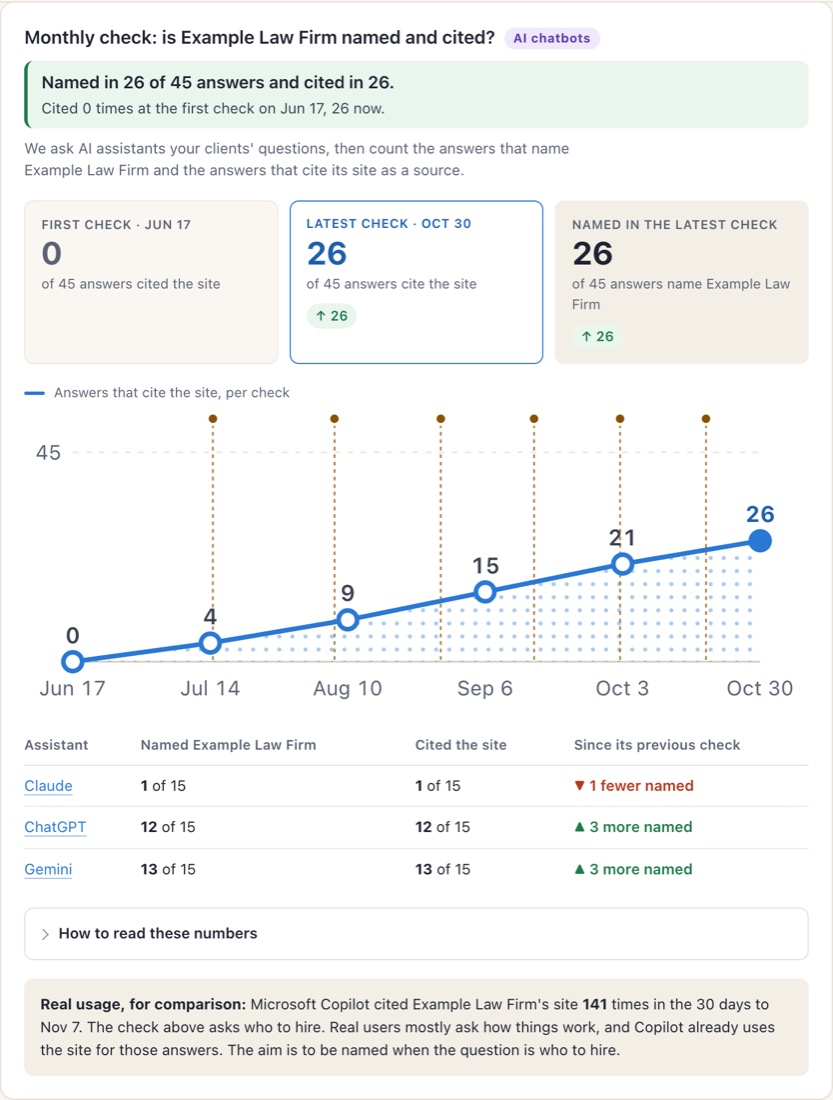
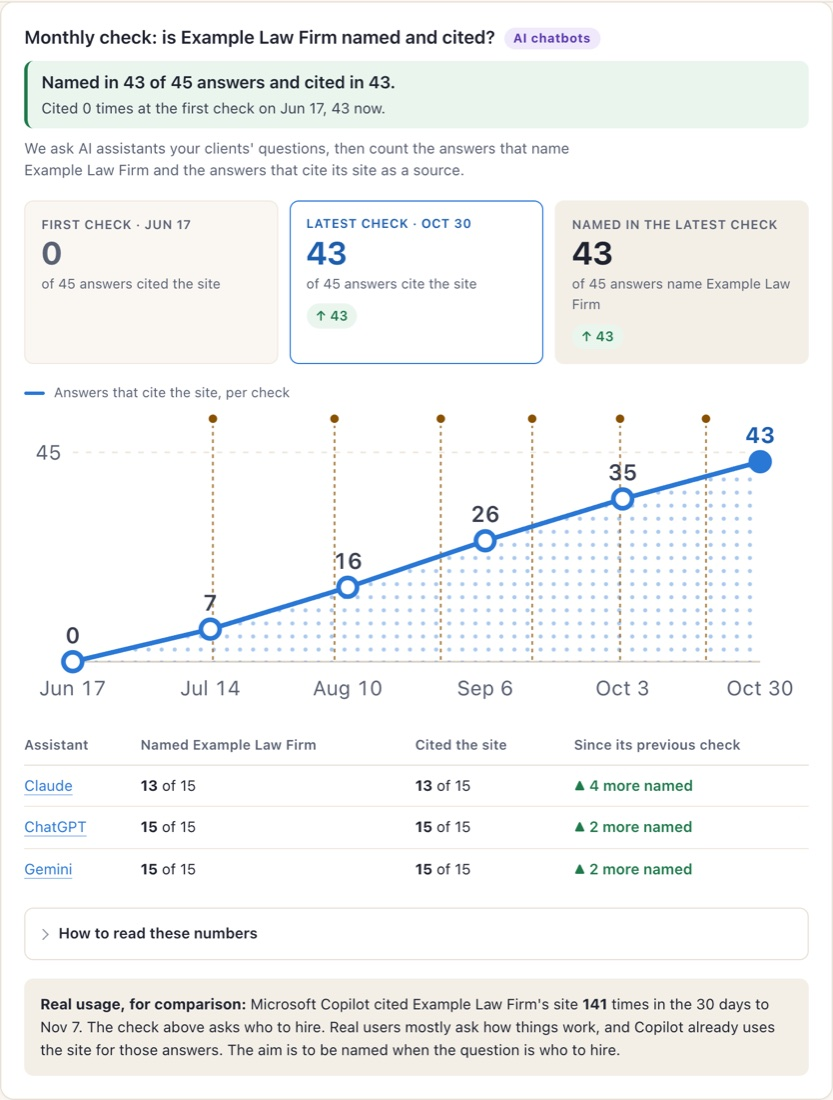
Engine card demo chart: 0, 7, 16, 26, 35, 43 of 45
Claude-Session: https://claude.ai/code/session_01Xw6qwDoa1RgdJ2gqcAdbdJ

diff --git a/scripts/v2/bodies/en/home.html b/scripts/v2/bodies/en/home.html
@@ -130,7 +130,7 @@ ld: [{"@type":"FAQPage","mainEntity":[{"@type":"Question","name":"What does Ship
       </div>
       <figure class="shot rv" style="max-width:540px;justify-self:center">
         <div class="bar" aria-hidden="true"><i></i><i></i><i></i><span>Monthly check</span></div>
-        <img src="/assets/v2/img/engine-monthly-en.jpg" width="833" height="1100" alt="Ship to Live AI Visibility Engine monthly check: how often AI answers name and cite the site, month by month (demo data, fictional company)" loading="lazy">
+        <img src="/assets/v2/img/engine-monthly-en.jpg?v=3" width="833" height="1100" alt="Ship to Live AI Visibility Engine monthly check: how often AI answers name and cite the site, month by month (demo data, fictional company)" loading="lazy">
         <figcaption>Real system screen (demo data)</figcaption>
       </figure>
     </div>

diff --git a/en/index.html b/en/index.html
@@ -268,7 +268,7 @@
       </div>
       <figure class="shot rv" style="max-width:540px;justify-self:center">
         <div class="bar" aria-hidden="true"><i></i><i></i><i></i><span>Monthly check</span></div>
-        <img src="/assets/v2/img/engine-monthly-en.jpg" width="833" height="1100" alt="Ship to Live AI Visibility Engine monthly check: how often AI answers name and cite the site, month by month (demo data, fictional company)" loading="lazy">
+        <img src="/assets/v2/img/engine-monthly-en.jpg?v=3" width="833" height="1100" alt="Ship to Live AI Visibility Engine monthly check: how often AI answers name and cite the site, month by month (demo data, fictional company)" loading="lazy">
         <figcaption>Real system screen (demo data)</figcaption>
       </figure>
     </div>

diff --git a/index.html b/index.html
@@ -268,7 +268,7 @@
       </div>
       <figure class="shot rv" style="max-width:540px;justify-self:center">
         <div class="bar" aria-hidden="true"><i></i><i></i><i></i><span>每月檢測</span></div>
-        <img src="/assets/v2/img/engine-monthly.jpg" width="833" height="1100" alt="夏裕 AI 曝光引擎每月檢測：AI 回答提到與引用網站的次數逐月變化（示範資料，公司名稱為虛構）" loading="lazy">
+        <img src="/assets/v2/img/engine-monthly.jpg?v=3" width="833" height="1100" alt="夏裕 AI 曝光引擎每月檢測：AI 回答提到與引用網站的次數逐月變化（示範資料，公司名稱為虛構）" loading="lazy">
         <figcaption>實際系統畫面（示範資料）</figcaption>
       </figure>
     </div>
